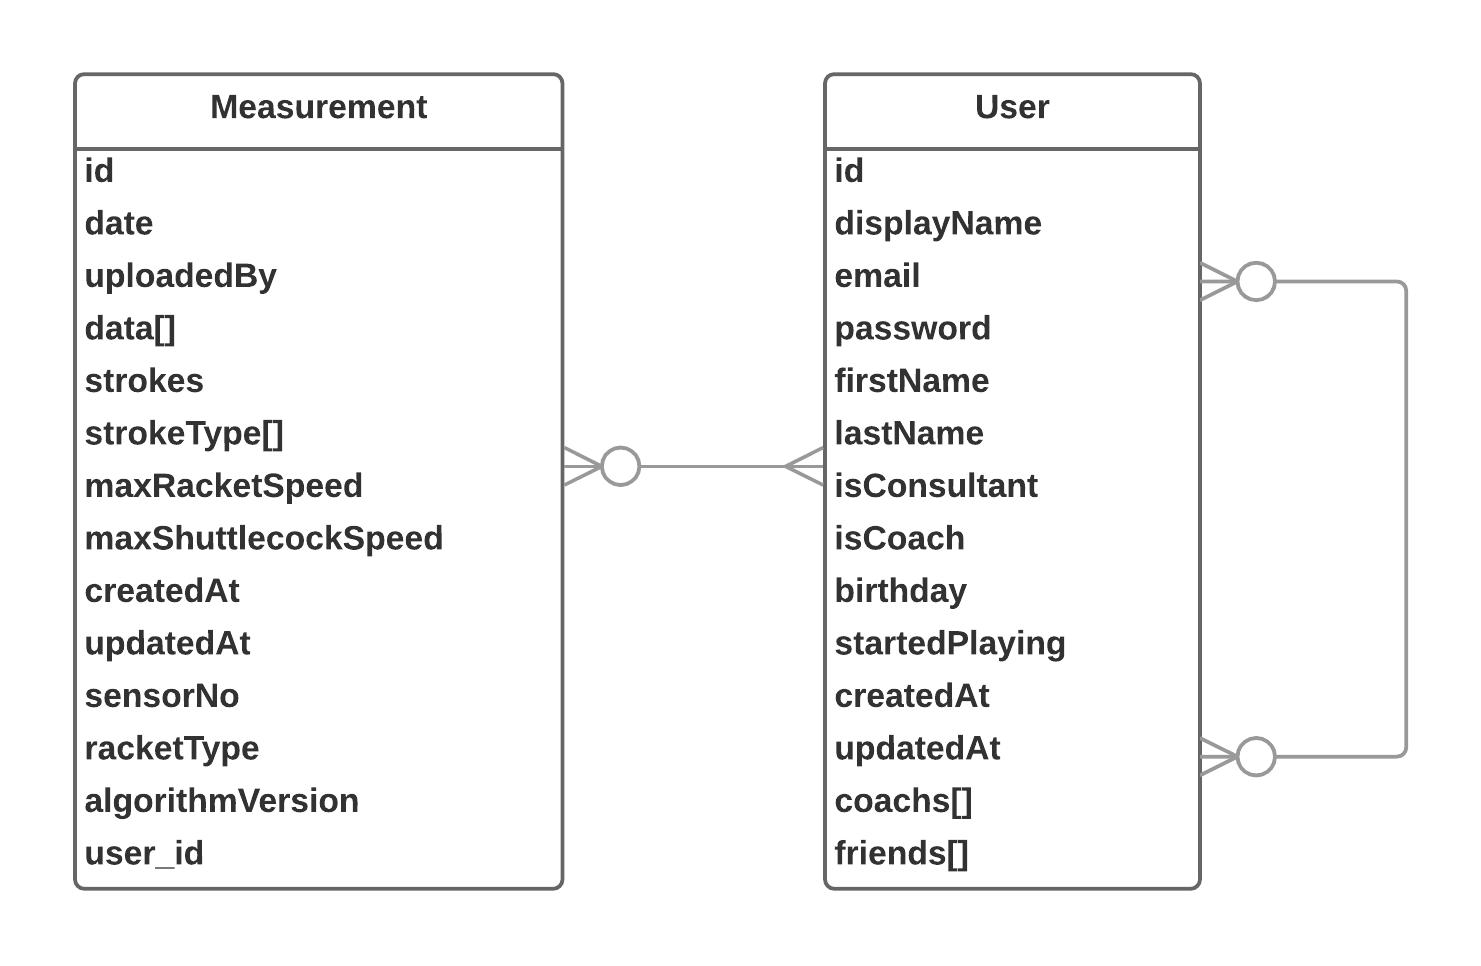
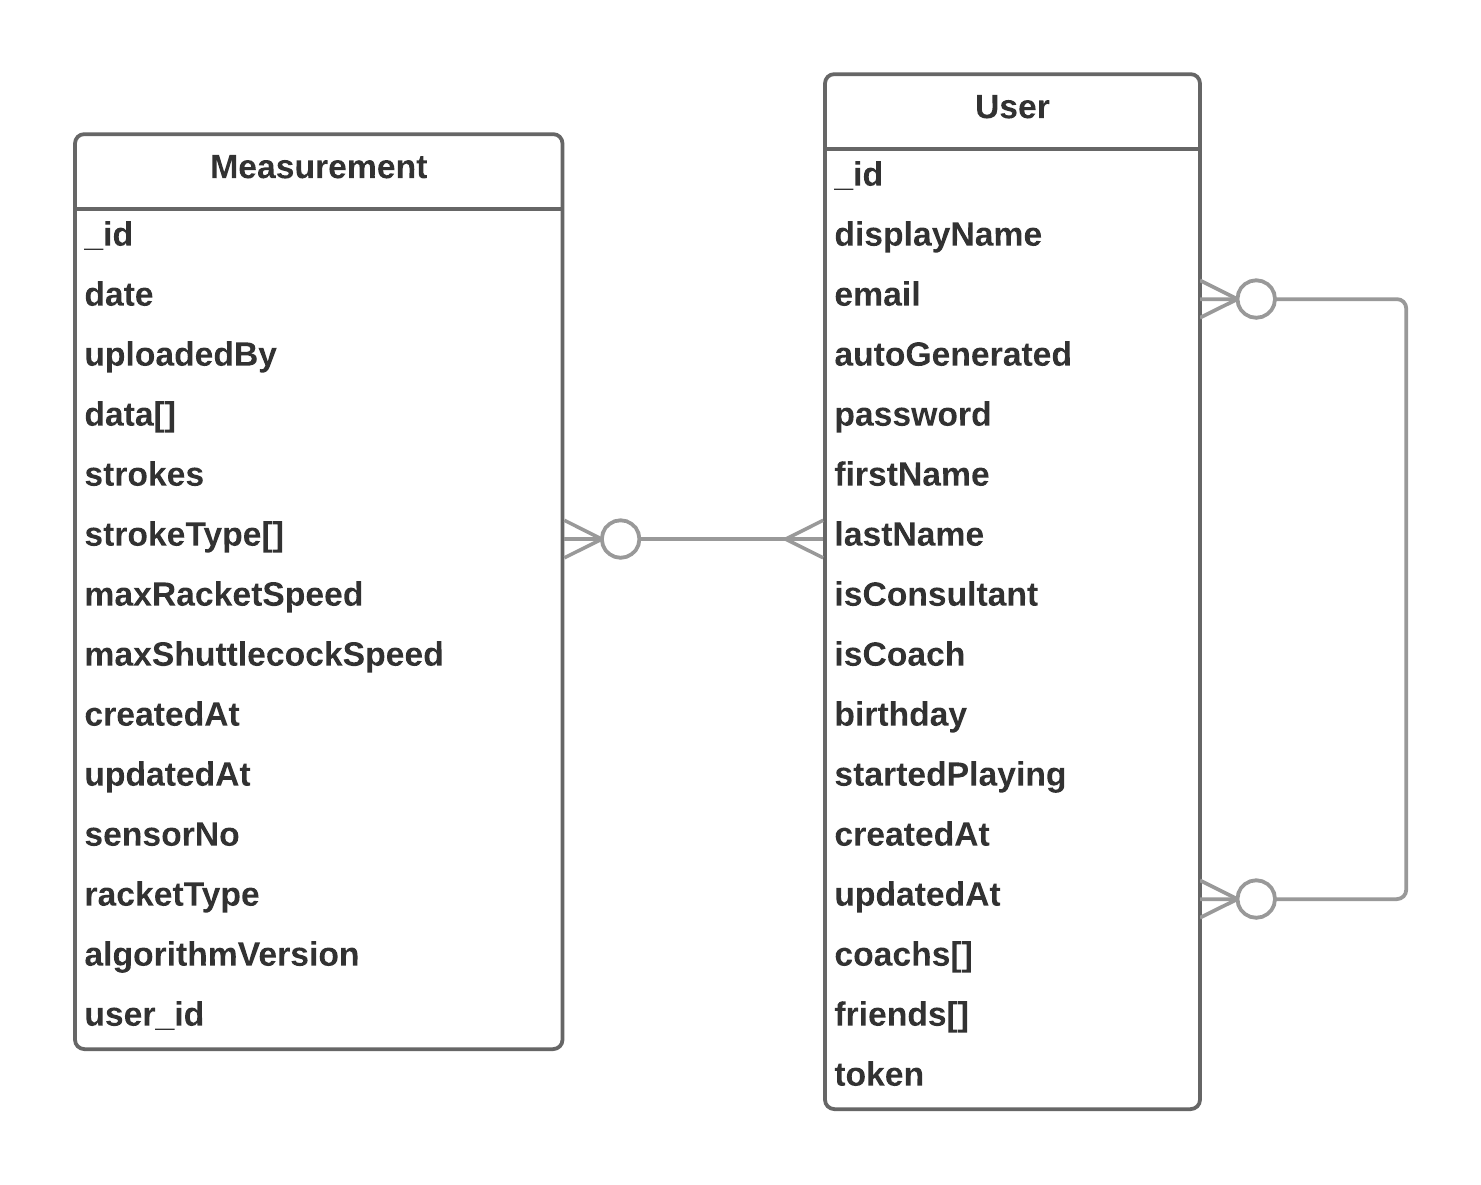
Feature/#125 db design (#153)
* init

* wip

* db design

* fix

* removed unused images

diff --git a/documentation/dbDesign.tex b/documentation/dbDesign.tex
@@ -1,0 +1,66 @@
+\chapter{Database}
+This chapter describes the database design and implementation.
+
+This project utilizes a \glsi{nosql} database. More specifically a \glsi{documentdb}. The database contains hardware sensor and user specific data.
+
+\section{Design}
+A \glsi{mongodb} is schema less.
+But to ease development, glsi{mongoose} is used to create schemas and relations between collections.
+The database schema can be seen on figure \ref{fig:dbSchema}.
+
+\graphich{1}{dbSchema}{Database schema with \textit{crow foot} notation}{fig:dbSchema}
+
+\section{Schemas and models}
+This schema is translated into \glsi{mongoose} schemas where types and references are added.
+The schema for \verb+User+s can be seen on listing \ref{lst:userSchema} and for measurements on listing \ref{lst:measurementSchema}.
+\glsi{mongoose} takes care of setting and updating the fields \verb+updatedAt+ and \verb+createdAt+ by setting the property \verb+timestamps+ to \verb+true+ for the schema.
+
+The schemas are then used to create \glsi{mongoose} models.
+The models are then used for collection manipulation, like saving and creating.
+
+\lstsetjavascript
+\begin{lstlisting}[caption=Mongoose User Schema, label=lst:userSchema]
+export const UserSchema = new Schema(
+  {
+    displayName: String,
+    email: String,
+    password: String,
+    autoGenerated: Boolean,
+    firstName: String,
+    lastName: String,
+    isConsultant: Boolean,
+    isCoach: Boolean,
+    allowSharing: Boolean,
+    birthday: Date,
+    startedPlaying: Date,
+    coaches: [{ _id: String, name: String }],
+    friends: [{ _id: String, name: String }],
+    token: String,
+  },
+  {
+    timestamps: true,
+  }
+);
+\end{lstlisting}
+
+\lstsetjavascript
+\begin{lstlisting}[caption=Mongoose Measurement Schema, label=lst:measurementSchema]
+export const MeasurementSchema = new Schema(
+  {
+    date: Date,
+    uploadedBy: Schema.Types.ObjectId,
+    data: [[Number]],
+    strokes: Number,
+    strokeType: [String],
+    maxRacketSpeed: Number,
+    maxShuttlecockSpeed: Number,
+    sensorNo: String,
+    racketType: String,
+    algorithmVersion: String,
+    user_id: Schema.Types.ObjectId,
+  },
+  {
+    timestamps: true,
+  }
+);
+\end{lstlisting}

diff --git a/config/lstLanguages/javascript.tex b/config/lstLanguages/javascript.tex
@@ -1,10 +1,10 @@
 \lstdefinelanguage{JavaScript}{
     keywords={typeof, new, true, false, catch, function, return, null, catch, switch, var, if, in, while, do, else, case, break},
     keywordstyle=\color{keywordBlue}\bfseries,
-    ndkeywords={class, export, boolean, throw, implements, import, this},
+    ndkeywords={class, export, boolean, throw, implements, import, this, Date, String, Number, const, ObjectId, Boolean},
     ndkeywordstyle=\color{keywordBlue}\bfseries,
     identifierstyle=\color{black},
-    sensitive=false,
+    sensitive=true,
     comment=[l]{//},
     morecomment=[s]{/*}{*/},
     commentstyle=\color{commentGreen}\ttfamily,

diff --git a/shared/glossary.tex b/shared/glossary.tex
@@ -237,12 +237,17 @@
 
 \newglossaryentry{repl}{
     name = {REPL},
-    description = {Execution environment based on "read-eval-print loop" pattern to execute compilable code instantaneous}
+    description = {Execution environment based on ''read-eval-print loop'' pattern to execute compilable code instantaneous}
 }
 
 \newglossaryentry{heroku}{
     name = {Heroku},
     description = {Heroku is a cloud hosting platform}
+}
+
+\newglossaryentry{mongoose}{
+    name = {Mongoose},
+    description = {Mongoose is a \glsi{mongodb} \gls{orm}}
 }
 
 %

diff --git a/Documentation.tex b/Documentation.tex
@@ -14,6 +14,8 @@
 
 \input{documentation/introduction}
 
+\input{documentation/dbDesign}
+
 \input{documentation/deployment}
 
 \input{documentation/api}
